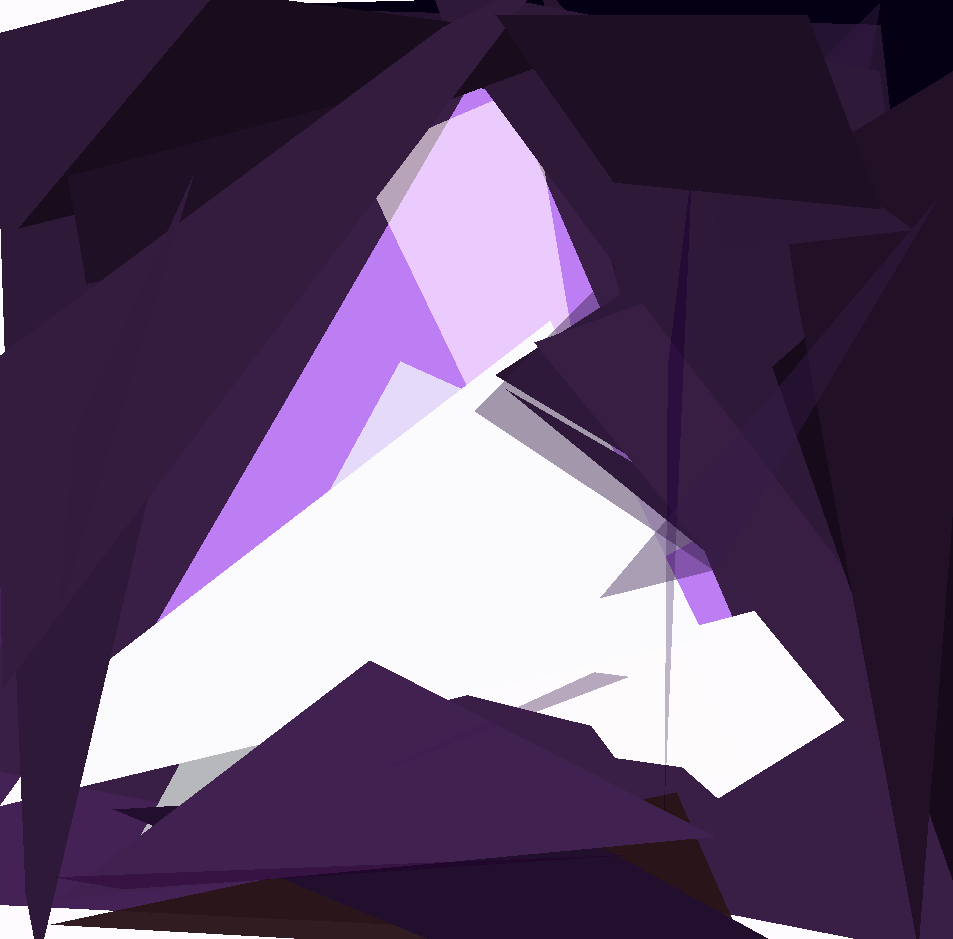
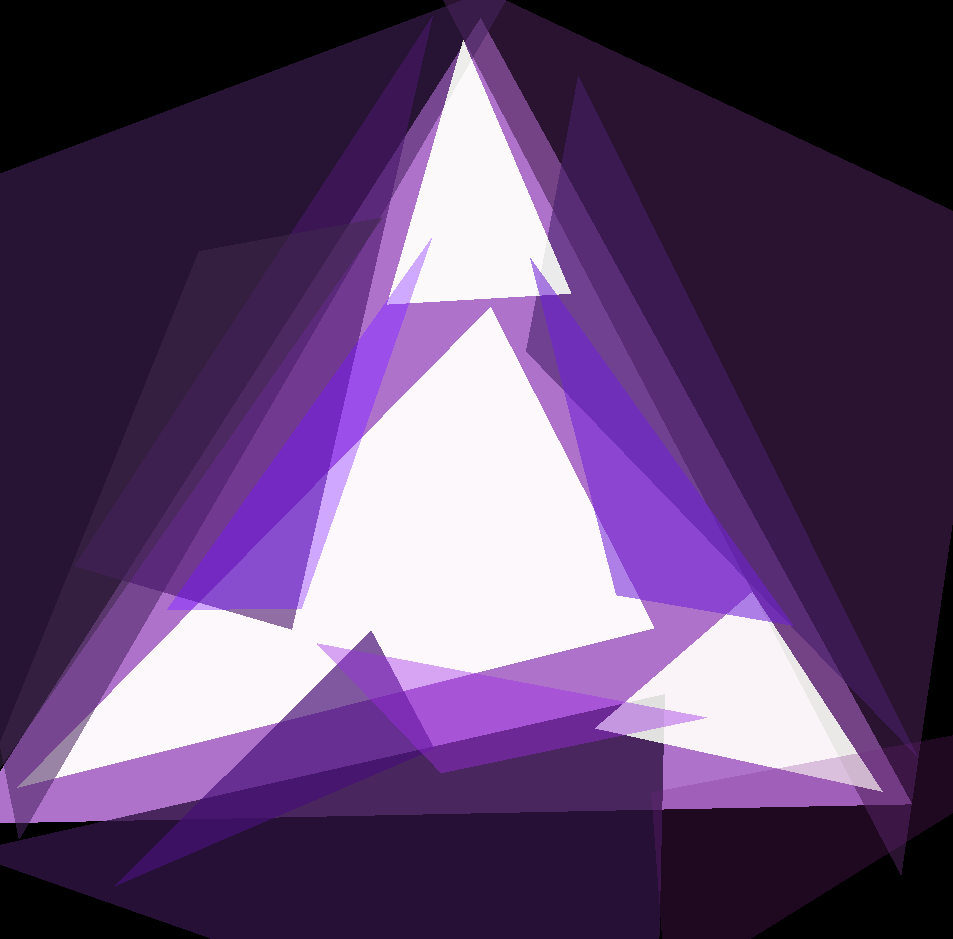
Npolygon colors seem to be broken. Triangles are fully functional

diff --git a/Program.cs b/Program.cs
@@ -51,27 +51,27 @@ namespace ShapeScape
         /// <summary>
         /// Starts out with this many completley random shapes. on the first cycle, these are culled down to <see cref="PopulationSize"/>
         /// </summary>
-        public static int InitalPopulation = 5000;
+        public static int InitalPopulation = 500;
 
         /// <summary>
         /// The number of shapes being evolved
         /// </summary>
-        public static int PopulationSize = 5000;
+        public static int PopulationSize = 500;
 
         /// <summary>
         /// Top N% survive, the rest are removed
         /// </summary>
-        public static int TopNSurvive = 100;
+        public static int TopNSurvive = 50;
 
         /// <summary>
         /// How many times the shapes get evolved
         /// </summary>
-        public static int EvolutionSteps = 6;
+        public static int EvolutionSteps = 25;
 
         /// <summary>
         /// The number of children each shape will have after population culling
         /// </summary>
-        private static int Childcount = 49;
+        private static int Childcount = 9;
 
         /// <summary>
         /// Affects how crazy mutations are. Advised to keep around 50
@@ -82,12 +82,16 @@ namespace ShapeScape
 
         static void Main(string[] args)
         {
+            // debug
+            rand = new Random(1000);
+            
+
             Stopwatch sw = Stopwatch.StartNew();
 
             // Load the target image into memory
             using var baseImageBuffer = GraphicsDevice.GetDefault().LoadReadOnlyTexture2D<Rgba32, float4>(ImagePath);
             Dimensions = new int2(baseImageBuffer.Width, baseImageBuffer.Height);
-            PalletteCache.CreatePallette(baseImageBuffer);
+            //PalletteCache.CreatePallette(baseImageBuffer);
 
             // Create both canvases
             using var constructorCanvasBuffer = GraphicsDevice.GetDefault().AllocateReadWriteTexture2D<Rgba32, float4>(Dimensions.X, Dimensions.Y);
@@ -137,11 +141,12 @@ namespace ShapeScape
             using var t12 = GraphicsDevice.GetDefault().AllocateReadOnlyBuffer<Tessel>(PopulationSize);
 
             // Fill canvas with blank color before we start
-            GraphicsDevice.GetDefault().For(Dimensions.X, Dimensions.Y, new Shaders.FillColor(constructorCanvasBuffer, PalletteCache.MostCommonColor()));
+            GraphicsDevice.GetDefault().For(Dimensions.X, Dimensions.Y, new Shaders.FillColor(constructorCanvasBuffer, new float4(0f, 0f, 0f, 1f)));
 
             // Main loop - Every cycle of this, one shape is added to the final image
             for (int i = 0; i < ShapeLimit; i++)
             {
+                float best = float.PositiveInfinity;
                 sw.Start();
 
                 // Initalise the shape array with random shapes
@@ -152,6 +157,15 @@ namespace ShapeScape
                 // Cycle through killing and breeding polygons 
                 for (int e = 0; e < EvolutionSteps; e++)
                 {
+                    // Something goes wrong RIGHT HERE on seed 1000.
+                    // Somehow, the score goes UP
+                    // Not between seperate shapes
+                    // the SAME EVOLUTION CYCLE
+                    // THE SHAPE FROM LAST CYCLE SHOULD STILL BE HERE SO AT THE UTTER WORST SCORE STAYS THE SAMEEE
+                    if (e == 0)
+                    {
+
+                    }
                     for (int j = 0; j < polygons.Length; j++)
                     {
                         Tessel[] tessArray = Tesselator.TessellatePolygon(polygons[j]);
@@ -208,7 +222,17 @@ namespace ShapeScape
 
                         polygons = polygons1.ToArray();
                     }
-                    Console.WriteLine($"Evolution cycle {e} score : {score[0]}");
+
+                    Console.WriteLine($"Evolution cycle {e} score : {score[0]} : Duration : {sw.ElapsedMilliseconds}ms");
+                    sw.Restart();
+                    if (score[0] < best)
+                    {
+                        best = score[0];
+                    }
+                    if (score[0] > best)
+                    {
+
+                    }
                 }
 
 
@@ -262,8 +286,8 @@ namespace ShapeScape
             int shapeType = rand.Next(3); // Adjust the number based on how many shape types you have
             return shapeType switch
             {
-                0 => new NPolygon(),
-                1 => new NPolygon(),
+                0 => new Triangle(),
+                1 => new Triangle(),
                 2 => new Triangle(),
                 _ => throw new InvalidOperationException("Unexpected shape type")
             };

diff --git a/Shapes/Triangle.cs b/Shapes/Triangle.cs
@@ -58,7 +58,7 @@ namespace ShapeScape.Shapes
             {
                 float2[] vertGenes = this.Verticies.Select(v => new float2(v.X, v.Y)).ToArray();
                 float4 colorGenes = new float4(Color.X, Color.Y, Color.Z, Color.A);
-
+                
                 // Pick a random verticie and mess with it a bit
                 int vert = Program.rand.Next(0, 3);
                 vertGenes[vert].X += (float)Program.rand.NextDouble() * RandomUtils.Coinflip() * Program.rand.Next(0, mutationStrength);
@@ -91,7 +91,7 @@ namespace ShapeScape.Shapes
                         colorGenes.W += diff;
                         break;
                 }
-
+                
                 polygons.Add(new Triangle(vertGenes, colorGenes));
             }
         }

diff --git a/ImageCache/PalletteCache.cs b/ImageCache/PalletteCache.cs
@@ -28,10 +28,10 @@ namespace ShapeScape.ImageCache
             colorBuffer.CopyTo(colors);
             colorBuffer.Dispose();
 
-            // Convert array into dictionary with appearance counts as values
-            // Use PLINQ to group and count colors in parallel
+            Console.WriteLine("Grouping colors");
             var transform = colors.AsParallel().GroupBy(c => c).ToDictionary(g => g.Key, g => g.Count());
-            // Thread-safe dictionary population
+
+            Console.WriteLine("Populating dictionary");
             foreach (var kvp in transform.OrderByDescending(kvp => kvp.Value))
             {
                 Pallette[kvp.Key] = kvp.Value;

diff --git a/Shader/Shaders.cs b/Shader/Shaders.cs
@@ -192,7 +192,7 @@ namespace ShapeScape.Shader.Shaders
                 {
                     for (int j = 0; j < constructorImage.Height; j++)
                     {
-                        float4 destColor = constructorImage[i, j].RGBA;
+                        float4 destColor = constructorImage[i, j];
                         float4 Pixel = constructorImage[i, j];
 
                         // Figure out what color this pixel should be if we were to draw to it

diff --git a/Utils/RandomUtils.cs b/Utils/RandomUtils.cs
@@ -14,7 +14,11 @@ namespace ShapeScape.Utils
         /// </summary>
         public static float4 RandomColor()
         {
-            return PalletteCache.RandomColorWeighted();
+            float4 value = new float4((float)Program.rand.NextDouble(),
+                (float)Program.rand.NextDouble(),
+                (float)Program.rand.NextDouble(),
+                (float)Program.rand.NextDouble());
+            return value;
         }
 
         /// <summary>

diff --git a/Shapes/NPolygon.cs b/Shapes/NPolygon.cs
@@ -62,7 +62,7 @@ namespace ShapeScape.Shapes
                 float2[] vertGenes = new float2[this.Verticies.Length];
                 for (int j = 0; j < this.Verticies.Length; j++)
                 {
-                    vertGenes[j] = this.Verticies[j];
+                    vertGenes[j] = new float2(this.Verticies[j].X, this.Verticies[j].Y);
                 }
                 float4 colorGenes = new float4(Color.X, Color.Y, Color.Z, Color.A);
 
